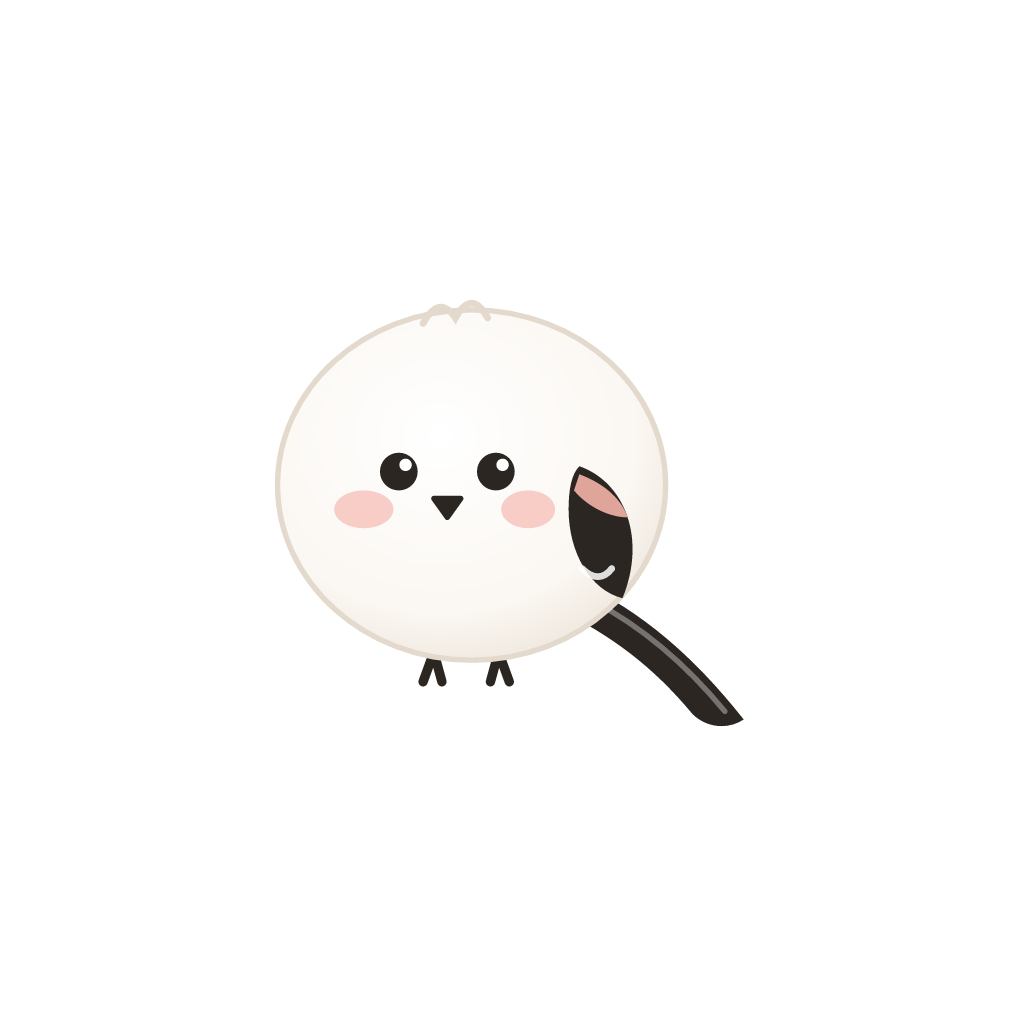
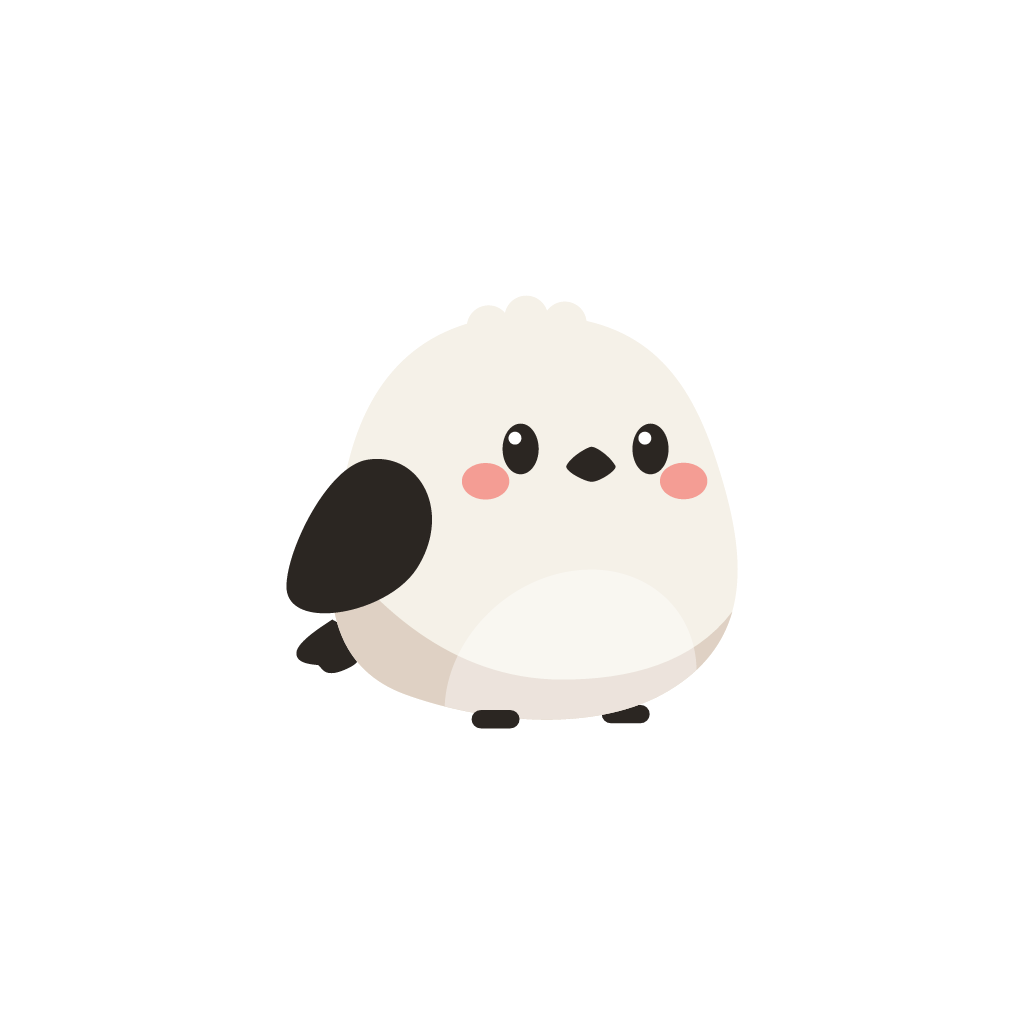
Redraw the mascot to match the new design
Kotori is traced from the redesign: a rounder body under a three-bump
tuft, flat cream with a tan underside and a pale belly, oval eyes, a
soft beak, and a short tail tucked behind the wing in place of the long
one. The animated component and the icon SVG draw the same new layers,
and the icons, splash and favicon are re-rendered on the redesign's sky
blue, which the Android adaptive icon now uses as its background too.

diff --git a/apps/app/src/components/Mascot.tsx b/apps/app/src/components/Mascot.tsx
@@ -1,4 +1,4 @@
-import { useEffect, useId, useState } from "react"
+import { useEffect, useState } from "react"
 import { View } from "react-native"
 import Animated, {
   Easing,
@@ -10,8 +10,8 @@ import Animated, {
   withSpring,
   withTiming
 } from "react-native-reanimated"
-import Svg, { Circle, Defs, Ellipse, G, Path, RadialGradient, Stop, Text as SvgText } from "react-native-svg"
-import { centering, type Mood, palette, shapes } from "../mascot/geometry.ts"
+import Svg, { Circle, Ellipse, G, Path, Text as SvgText } from "react-native-svg"
+import { type Mood, palette, shapes } from "../mascot/geometry.ts"
 
 export type { Mood }
 
@@ -43,13 +43,19 @@ const Eyes = ({ mood, blinking }: { readonly mood: Mood; readonly blinking: bool
   // Thinking: eyes glance up and to the side.
   const dx = mood === "thinking" ? -2.5 : 0
   const dy = mood === "thinking" ? -3 : 0
+  const scale = mood === "oops" ? 1.08 : 1
+  const { catchlight } = shapes
   return shapes.eyes.map((e) => (
     <G key={e.cx}>
-      <Circle cx={e.cx + dx} cy={e.cy + dy} r={mood === "oops" ? 7.5 : 7} fill={palette.ink} />
-      <Circle cx={e.cx + dx + 2.5} cy={e.cy + dy - 2.5} r={2.3} fill={palette.white} />
+      <Ellipse cx={e.cx + dx} cy={e.cy + dy} rx={e.rx * scale} ry={e.ry * scale} fill={palette.ink} />
+      <Circle cx={e.cx + dx + catchlight.dx} cy={e.cy + dy + catchlight.dy} r={catchlight.r} fill={palette.white} />
     </G>
   ))
 }
+
+const Foot = ({ d }: { readonly d: string }) => (
+  <Path d={d} stroke={palette.ink} strokeWidth={shapes.feet.width} strokeLinecap="round" />
+)
 
 /**
  * Kotori, the shima enaga. Bobs gently, blinks now and then, and changes
@@ -57,8 +63,6 @@ const Eyes = ({ mood, blinking }: { readonly mood: Mood; readonly blinking: bool
  */
 export const Mascot = ({ size = 120, mood = "curious" }: { readonly size?: number; readonly mood?: Mood }) => {
   const reduceMotion = useReducedMotion()
-  // Gradient ids are global on the web; a shared id breaks once the defining screen is hidden.
-  const gradientId = `kotori-body-${useId().replace(/[^\w-]/g, "")}`
   const bob = useSharedValue(0)
   const hop = useSharedValue(0)
   const [blinking, setBlinking] = useState(false)
@@ -102,9 +106,6 @@ export const Mascot = ({ size = 120, mood = "curious" }: { readonly size?: numbe
   }, [mood, reduceMotion])
 
   const style = useAnimatedStyle(() => ({ transform: [{ translateY: bob.value + hop.value }] }))
-  // Keep the outline about a pixel wide at small sizes so the white bird reads on light backgrounds.
-  const outline = Math.max(2, 240 / size)
-  const { body } = shapes
   const celebrating = mood === "celebrate"
 
   return (
@@ -115,86 +116,40 @@ export const Mascot = ({ size = 120, mood = "curious" }: { readonly size?: numbe
     >
       <Animated.View style={style}>
         <Svg width={size} height={size} viewBox="0 0 200 200">
-          <Defs>
-            <RadialGradient id={gradientId} cx="42%" cy="36%" r="70%">
-              <Stop offset="0%" stopColor={palette.white} />
-              <Stop offset="72%" stopColor={palette.cream} />
-              <Stop offset="100%" stopColor={palette.shade} />
-            </RadialGradient>
-          </Defs>
-          <G transform={`translate(${centering.x} ${centering.y})`}>
-            <Path d={shapes.tail} fill={palette.ink} />
-            <Path
-              d={shapes.tailHighlight}
-              stroke={palette.white}
-              strokeOpacity={0.35}
-              strokeWidth={2}
-              fill="none"
-              strokeLinecap="round"
-            />
-            <Path d={shapes.feet} stroke={palette.ink} strokeWidth={3.5} strokeLinecap="round" />
-            <Ellipse
-              cx={body.cx}
-              cy={body.cy}
-              rx={body.rx}
-              ry={body.ry}
-              fill={`url(#${gradientId})`}
-              stroke={palette.outline}
-              strokeWidth={outline}
-            />
-            <Path d={shapes.tuft} fill="none" stroke={palette.outline} strokeWidth={2.5} strokeLinecap="round" />
-            {celebrating ? (
-              <>
-                <Path d={shapes.wingUp} fill={palette.ink} />
-                <Path d={shapes.wingUpShoulder} fill={palette.rose} />
-              </>
-            ) : (
-              <>
-                <Path d={shapes.wing} fill={palette.ink} />
-                <Path d={shapes.wingShoulder} fill={palette.rose} />
-                <Path
-                  d={shapes.wingEdge}
-                  stroke={palette.white}
-                  strokeWidth={2.5}
-                  fill="none"
-                  strokeLinecap="round"
-                  opacity={0.85}
-                />
-              </>
-            )}
-            {shapes.cheeks.map((c) => (
-              <Ellipse
-                key={c.cx}
-                cx={c.cx}
-                cy={c.cy}
-                rx={c.rx}
-                ry={c.ry}
-                fill={palette.blush}
-                opacity={mood === "happy" || celebrating ? 0.8 : 0.6}
-              />
-            ))}
-            <Eyes mood={mood} blinking={blinking} />
-            <Path d={shapes.beak} fill={palette.ink} stroke={palette.ink} strokeWidth={2} strokeLinejoin="round" />
-            {mood === "oops" ? <Path d="M146 64 q 7 10 0 15 q -7 -5 0 -15 Z" fill={palette.sky} opacity={0.9} /> : null}
-            {mood === "sleepy" ? (
-              <SvgText x={136} y={58} fontSize={22} fontWeight="bold" fill={palette.sky}>
-                z
-              </SvgText>
-            ) : null}
-            {mood === "thinking" ? (
-              <G opacity={0.85}>
-                <Circle cx={150} cy={52} r={4} fill={palette.outline} />
-                <Circle cx={163} cy={40} r={6} fill={palette.outline} />
-                <Circle cx={180} cy={25} r={9} fill={palette.outline} />
-              </G>
-            ) : null}
-            {celebrating ? (
-              <G fill={palette.rose}>
-                <Path d="M30 40 l 3 8 l 8 3 l -8 3 l -3 8 l -3 -8 l -8 -3 l 8 -3 Z" />
-                <Path d="M168 30 l 2 6 l 6 2 l -6 2 l -2 6 l -2 -6 l -6 -2 l 6 -2 Z" />
-              </G>
-            ) : null}
-          </G>
+          <Path d={shapes.tail} fill={palette.ink} />
+          <Foot d={shapes.feet.back} />
+          {shapes.tuft.map((t) => (
+            <Circle key={t.cx} cx={t.cx} cy={t.cy} r={t.r} fill={palette.cream} />
+          ))}
+          <Path d={shapes.body} fill={palette.cream} />
+          <Path d={shapes.shade} fill={palette.shade} />
+          <Path d={shapes.belly} fill={palette.white} fillOpacity={0.4} />
+          <Foot d={shapes.feet.front} />
+          <Path d={celebrating ? shapes.wingUp : shapes.wing} fill={palette.ink} />
+          {shapes.cheeks.map((c) => (
+            <Ellipse key={c.cx} cx={c.cx} cy={c.cy} rx={c.rx} ry={c.ry} fill={palette.blush} />
+          ))}
+          <Eyes mood={mood} blinking={blinking} />
+          <Path d={shapes.beak} fill={palette.ink} />
+          {mood === "oops" ? <Path d="M171 46 q 7 10 0 15 q -7 -5 0 -15 Z" fill={palette.sky} /> : null}
+          {mood === "sleepy" ? (
+            <SvgText x={164} y={38} fontSize={22} fontWeight="bold" fill={palette.sky}>
+              z
+            </SvgText>
+          ) : null}
+          {mood === "thinking" ? (
+            <G opacity={0.85}>
+              <Circle cx={160} cy={37} r={4} fill={palette.shade} />
+              <Circle cx={171} cy={24} r={5.5} fill={palette.shade} />
+              <Circle cx={185} cy={10} r={7.5} fill={palette.shade} />
+            </G>
+          ) : null}
+          {celebrating ? (
+            <G fill={palette.blush}>
+              <Path d="M42 9 l 3 8 l 8 3 l -8 3 l -3 8 l -3 -8 l -8 -3 l 8 -3 Z" />
+              <Path d="M172 20 l 2 6 l 6 2 l -6 2 l -2 6 l -2 -6 l -6 -2 l 6 -2 Z" />
+            </G>
+          ) : null}
         </Svg>
       </Animated.View>
     </View>

diff --git a/apps/app/src/mascot/geometry.ts b/apps/app/src/mascot/geometry.ts
@@ -1,44 +1,48 @@
 /**
- * Kotori, a shima enaga (シマエナガ): a round white snowball of a bird with bead
- * eyes, a tiny beak, dark wings with a rosy shoulder and a long tail. Geometry
- * lives here so the animated component and the icon renderer share it.
+ * Kotori, a shima enaga (シマエナガ). Geometry lives here so the animated
+ * component and the icon renderer share it.
  * Coordinates are in a 200×200 box.
  */
 export const palette = {
   ink: "#2B2622",
   white: "#FFFFFF",
-  cream: "#FBF7F2",
-  shade: "#EEE6DC",
-  outline: "#E3D9CD",
-  rose: "#DFA59B",
-  blush: "#F4AFA6",
-  sky: "#9CC5E8"
+  cream: "#F5F1E8",
+  shade: "#DFD1C4",
+  blush: "#F49D94",
+  sky: "#94C1E2"
 }
 
 export const shapes = {
-  tail: "M134 140 C 157 151, 176 167, 195 191 C 189 195, 181 194, 176 189 C 161 171, 146 160, 126 150 Z",
-  tailHighlight: "M139 147 C 158 157, 174 171, 188 188",
-  feet: "M80 166 l -4 11 M 80 166 l 3 11 M 104 166 l -3 11 M 104 166 l 4 11",
-  body: { cx: 94, cy: 104, rx: 72, ry: 65 },
-  tuft: "M76 44 q 6 -11 12 -2 q 6 -11 12 0",
-  wing: "M134 97 C 151 103, 159 124, 150 146 C 138 143, 130 129, 130 113 C 130 106, 131 100, 134 97 Z",
-  wingShoulder: "M134 100 C 142 103, 149 108, 152 116 C 145 116, 137 112, 132 106 Z",
-  wingEdge: "M146 135 C 143 139, 139 139, 135 135",
+  tail: "M33.3 139.9 C 30 142.1, 20.4 148, 20 152.1 C 19.7 155.8, 24.2 156.5, 28.1 156.8 C 29.6 158.1, 30.1 160.3, 34.2 159.7 C 36.6 159.4, 43.4 156.5, 42.7 154.7 L 47.1 147.5 Z",
+  /** Feet are round-capped strokes; the back one tucks behind the body. */
+  feet: { back: "M136.7 175 H 147.7", front: "M88.4 176.9 H 99.4", width: 6.8 },
+  tuft: [
+    { cx: 91.3, cy: 31.4, r: 8.1 },
+    { cx: 105.3, cy: 27.8, r: 8.1 },
+    { cx: 119.6, cy: 30, r: 8.1 }
+  ],
+  body: "M111.2 27 C 149 28.4, 165.7 48.6, 176.4 82.7 C 186.8 115.2, 190.3 147, 158.2 166.3 C 131.2 182.5, 89.7 178.3, 60.4 167.7 C 24.5 154.7, 30.8 113.8, 39.6 80.2 C 49.2 43.4, 73.6 25.5, 111.2 27 Z",
+  /** The shadowed underside. */
+  shade:
+    "M181.8 136.9 C 178.6 148.2, 171.5 158.3, 158.2 166.3 C 131.2 182.5, 89.7 178.3, 60.4 167.7 C 35.9 158.8, 31.1 136.9, 33.2 113.2 C 48.7 133, 76.4 162.2, 118.6 162.2 C 143.3 162.2, 167.1 156.3, 181.8 136.9 Z",
+  /** Drawn in translucent white so it pales the body and the shade alike. */
+  belly:
+    "M75 172.1 A 49.7 42.1 -39.5 0 1 168.5 158.6 C 165.6 161.3, 162.2 163.9, 158.2 166.3 C 135.4 179.9, 102.3 179.1, 75 172.1 Z",
+  wing: "M46.3 80.6 C 66.1 77.4, 77.9 100.1, 64.8 120.8 C 53.9 138.1, 16.1 144.8, 16.3 127.5 C 16.4 113.9, 31.6 83, 46.3 80.6 Z",
   /** Wing raised for celebrations. */
-  wingUp: "M136 106 C 148 92, 166 84, 182 88 C 176 102, 160 115, 139 121 C 133 117, 132 111, 136 106 Z",
-  wingUpShoulder: "M138 106 C 145 98, 154 93, 162 91 C 157 99, 148 106, 137 111 Z",
+  wingUp:
+    "M71.4 78.8 C 72.8 98.8, 49.3 108.6, 29.8 93.8 C 13.5 81.4, 10.1 43.1, 27.3 44.8 C 40.9 46.1, 70.4 64, 71.4 78.8 Z",
   cheeks: [
-    { cx: 54, cy: 113, rx: 11, ry: 7 },
-    { cx: 115, cy: 113, rx: 10, ry: 7 }
+    { cx: 90.2, cy: 88.6, rx: 8.8, ry: 6.8 },
+    { cx: 163.7, cy: 88.5, rx: 8.8, ry: 6.8 }
   ],
   eyes: [
-    { cx: 67, cy: 99 },
-    { cx: 103, cy: 99 }
+    { cx: 103.2, cy: 76.6, rx: 6.7, ry: 9.4 },
+    { cx: 151.4, cy: 76.6, rx: 6.7, ry: 9.4 }
   ],
-  beak: "M80 109 L 90 109 L 85 116 Z"
+  /** Catchlight, offset from each eye's centre. */
+  catchlight: { dx: -2.1, dy: -4, r: 2.4 },
+  beak: "M129.4 75.8 C 131.4 75.7, 136.5 79.5, 138.4 82.9 C 139.2 84.3, 132.6 88.9, 129.4 88.8 C 126.7 88.6, 119.3 84.7, 120.2 82.8 C 121.9 79.3, 128.1 75.9, 129.4 75.8 Z"
 } as const
-
-/** Shift that centres the whole bird, tail included, in its 200×200 box. */
-export const centering = { x: -9, y: -14 }
 
 export type Mood = "curious" | "happy" | "thinking" | "sleepy" | "celebrate" | "oops"

diff --git a/apps/app/src/mascot/svg.ts b/apps/app/src/mascot/svg.ts
@@ -1,11 +1,11 @@
-import { centering, type Mood, palette, shapes } from "./geometry.ts"
+import { type Mood, palette, shapes } from "./geometry.ts"
 
 /** The mascot as an SVG document, for generating icons and splash images. */
 export const mascotSvg = (options: { mood?: Mood; background?: string; padding?: number } = {}) => {
   const mood = options.mood ?? "curious"
   const pad = options.padding ?? 0
   const size = 200 + pad * 2
-  const { body } = shapes
+  const { catchlight } = shapes
   const eyes =
     mood === "happy" || mood === "celebrate"
       ? shapes.eyes
@@ -17,33 +17,24 @@ export const mascotSvg = (options: { mood?: Mood; background?: string; padding?:
       : shapes.eyes
           .map(
             (e) =>
-              `<circle cx="${e.cx}" cy="${e.cy}" r="7" fill="${palette.ink}"/><circle cx="${e.cx + 2.5}" cy="${e.cy - 2.5}" r="2.3" fill="${palette.white}"/>`
+              `<ellipse cx="${e.cx}" cy="${e.cy}" rx="${e.rx}" ry="${e.ry}" fill="${palette.ink}"/><circle cx="${e.cx + catchlight.dx}" cy="${e.cy + catchlight.dy}" r="${catchlight.r}" fill="${palette.white}"/>`
           )
           .join("")
-  const wing =
-    mood === "celebrate"
-      ? `<path d="${shapes.wingUp}" fill="${palette.ink}"/><path d="${shapes.wingUpShoulder}" fill="${palette.rose}"/>`
-      : `<path d="${shapes.wing}" fill="${palette.ink}"/><path d="${shapes.wingShoulder}" fill="${palette.rose}"/><path d="${shapes.wingEdge}" stroke="${palette.white}" stroke-width="2.5" fill="none" stroke-linecap="round" opacity="0.85"/>`
+  const foot = (d: string) =>
+    `<path d="${d}" stroke="${palette.ink}" stroke-width="${shapes.feet.width}" stroke-linecap="round"/>`
 
   return `<svg xmlns="http://www.w3.org/2000/svg" viewBox="${-pad} ${-pad} ${size} ${size}" width="${size}" height="${size}">
-  <defs>
-    <radialGradient id="body" cx="42%" cy="36%" r="70%">
-      <stop offset="0%" stop-color="${palette.white}"/>
-      <stop offset="72%" stop-color="${palette.cream}"/>
-      <stop offset="100%" stop-color="${palette.shade}"/>
-    </radialGradient>
-  </defs>
   ${options.background ? `<rect x="${-pad}" y="${-pad}" width="${size}" height="${size}" fill="${options.background}"/>` : ""}
-  <g transform="translate(${centering.x} ${centering.y})">
   <path d="${shapes.tail}" fill="${palette.ink}"/>
-  <path d="${shapes.tailHighlight}" stroke="${palette.white}" stroke-opacity="0.35" stroke-width="2" fill="none" stroke-linecap="round"/>
-  <path d="${shapes.feet}" stroke="${palette.ink}" stroke-width="3.5" stroke-linecap="round"/>
-  <ellipse cx="${body.cx}" cy="${body.cy}" rx="${body.rx}" ry="${body.ry}" fill="url(#body)" stroke="${palette.outline}" stroke-width="2"/>
-  <path d="${shapes.tuft}" fill="none" stroke="${palette.outline}" stroke-width="2.5" stroke-linecap="round"/>
-  ${wing}
-  ${shapes.cheeks.map((c) => `<ellipse cx="${c.cx}" cy="${c.cy}" rx="${c.rx}" ry="${c.ry}" fill="${palette.blush}" opacity="0.6"/>`).join("")}
+  ${foot(shapes.feet.back)}
+  ${shapes.tuft.map((t) => `<circle cx="${t.cx}" cy="${t.cy}" r="${t.r}" fill="${palette.cream}"/>`).join("")}
+  <path d="${shapes.body}" fill="${palette.cream}"/>
+  <path d="${shapes.shade}" fill="${palette.shade}"/>
+  <path d="${shapes.belly}" fill="${palette.white}" fill-opacity="0.4"/>
+  ${foot(shapes.feet.front)}
+  <path d="${mood === "celebrate" ? shapes.wingUp : shapes.wing}" fill="${palette.ink}"/>
+  ${shapes.cheeks.map((c) => `<ellipse cx="${c.cx}" cy="${c.cy}" rx="${c.rx}" ry="${c.ry}" fill="${palette.blush}"/>`).join("")}
   ${eyes}
-  <path d="${shapes.beak}" fill="${palette.ink}" stroke="${palette.ink}" stroke-width="2" stroke-linejoin="round"/>
-  </g>
+  <path d="${shapes.beak}" fill="${palette.ink}"/>
 </svg>`
 }

diff --git a/tools/render-assets.ts b/tools/render-assets.ts
@@ -5,6 +5,7 @@
 import { Resvg } from "@resvg/resvg-js"
 import { mkdirSync, writeFileSync } from "node:fs"
 import { join } from "node:path"
+import { palette } from "../apps/app/src/mascot/geometry.ts"
 import { mascotSvg } from "../apps/app/src/mascot/svg.ts"
 
 const out = join(import.meta.dirname, "..", "apps", "app", "assets")
@@ -16,10 +17,10 @@ const render = (file: string, svg: string, width: number) => {
   console.log(`wrote ${file} (${width}px)`)
 }
 
-const cream = "#FBF7F2"
-render("icon.png", mascotSvg({ background: cream, padding: 22 }), 1024)
+const { sky } = palette
+render("icon.png", mascotSvg({ background: sky, padding: 22 }), 1024)
 render("adaptive-icon.png", mascotSvg({ padding: 90 }), 1024)
 render("splash-icon.png", mascotSvg({ padding: 10 }), 600)
-render("favicon.png", mascotSvg({ background: cream, padding: 16 }), 96)
-render("mascot-happy.png", mascotSvg({ mood: "happy", background: cream, padding: 20 }), 400)
-render("mascot-celebrate.png", mascotSvg({ mood: "celebrate", background: cream, padding: 20 }), 400)
+render("favicon.png", mascotSvg({ background: sky, padding: 16 }), 96)
+render("mascot-happy.png", mascotSvg({ mood: "happy", background: sky, padding: 20 }), 400)
+render("mascot-celebrate.png", mascotSvg({ mood: "celebrate", background: sky, padding: 20 }), 400)

diff --git a/apps/app/src/theme/tokens.ts b/apps/app/src/theme/tokens.ts
@@ -1,9 +1,9 @@
 import { Platform } from "react-native"
 
 /**
- * Kotori's palette is snow and young bamboo (wakatake), with one warm accent
- * taken from the bird's rosy shoulders. Every lighter tint and darker shade of
- * green is drawn from Wakatake 500 at the same hue.
+ * Kotori's palette is snow and young bamboo (wakatake), with one warm accent.
+ * Every lighter tint and darker shade of green is drawn from Wakatake 500 at
+ * the same hue.
  */
 const color = {
   /** Snow: the screen background. */
